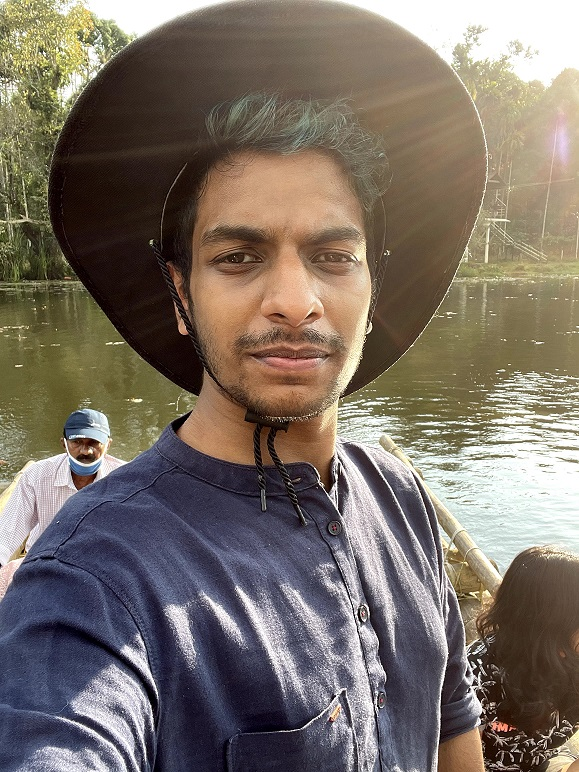
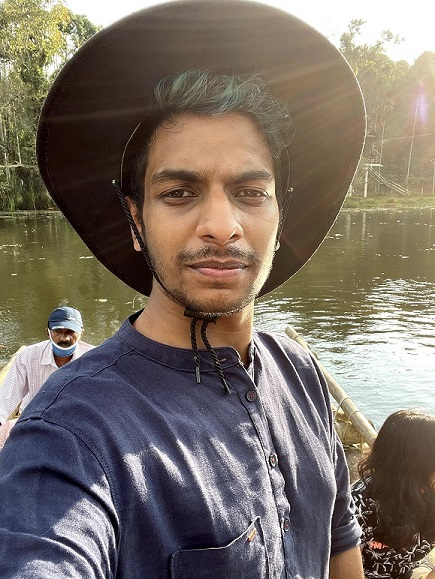
- Tweaked profile image and line height

diff --git a/styles.css b/styles.css
@@ -275,9 +275,9 @@ section {
 }
 
 .about p {
-    font-size: 1.15rem;
+    font-size: 1.25rem;
     padding: 5px;
-    line-height: 2.75vh;
+    line-height: 3.45vh;
 }
 
 
